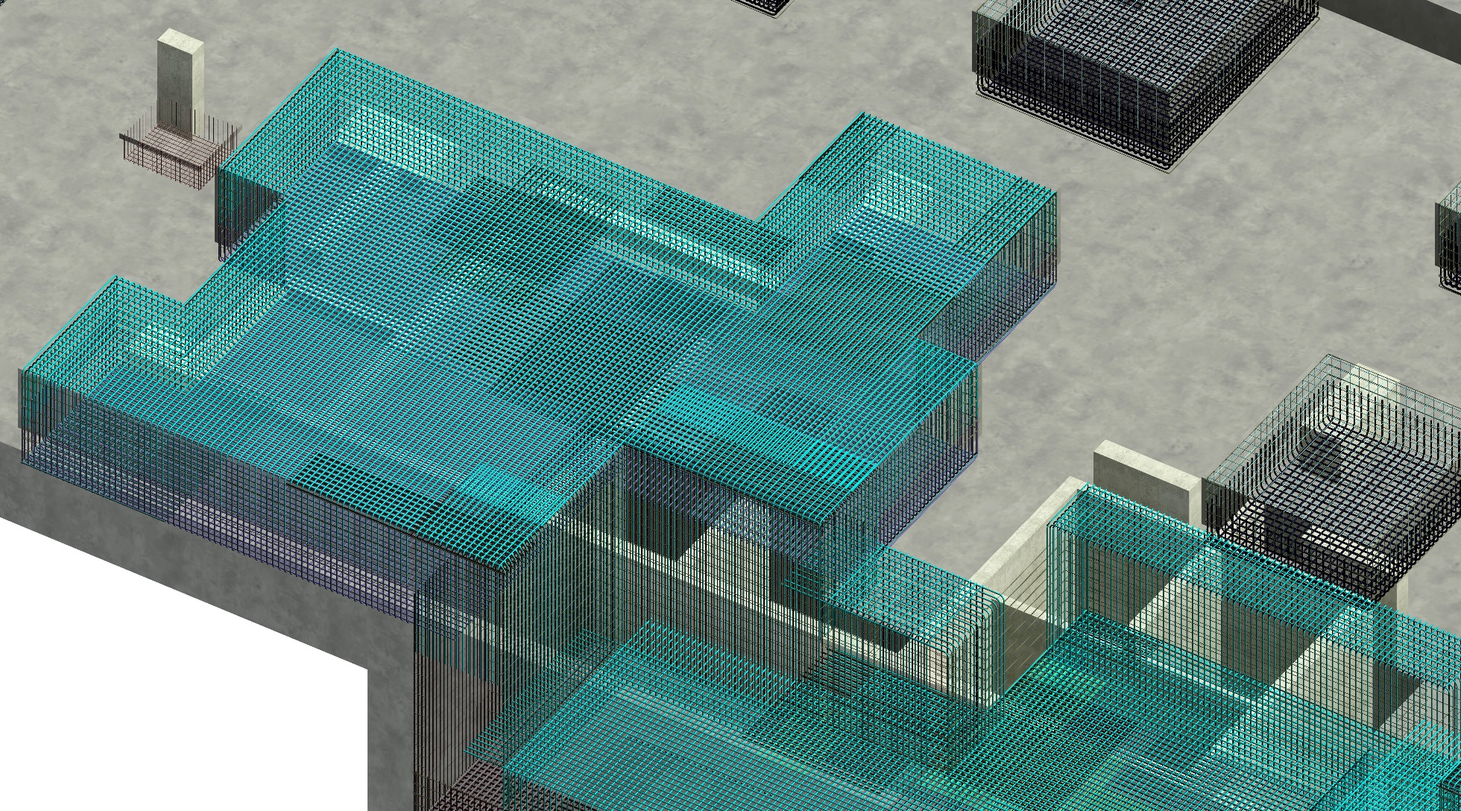
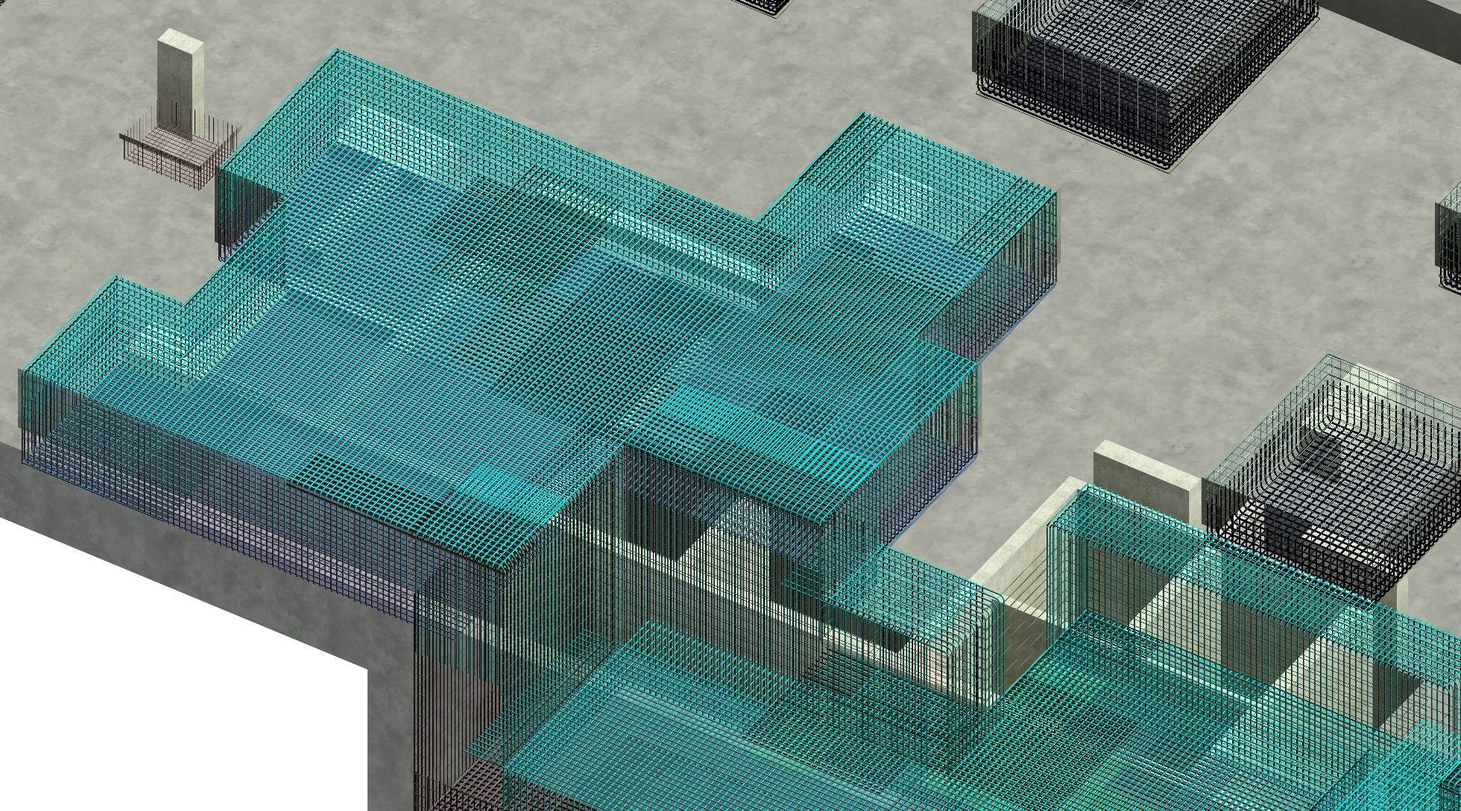
v2.4.1: remove 5 torn BBS drawings, optimize images 57MB->14MB, fix BBS counter 15->12, cache-bust assets

Changed region(s): [[0.0, 0.0625, 0.7158, 0.8125], [0.3423, 0.75, 1.0, 1.0], [0.7158, 0.5938, 1.0, 0.8438]]

diff --git a/index.html b/index.html
@@ -11,7 +11,7 @@
 <link rel="preconnect" href="https://fonts.googleapis.com">
 <link rel="preconnect" href="https://fonts.gstatic.com" crossorigin>
 <link href="https://fonts.googleapis.com/css2?family=Poppins:wght@600;700;800&family=Inter:wght@400;500;600;700&family=Playfair+Display:ital,wght@1,500;1,600&family=JetBrains+Mono:wght@500;700&display=swap" rel="stylesheet">
-<link rel="stylesheet" href="style.css?v=2.4.0">
+<link rel="stylesheet" href="style.css?v=2.4.1">
 <script data-goatcounter="https://aasif-shaikh7.goatcounter.com/count" async src="//gc.zgo.at/count.js"></script>
 </head>
 <body>
@@ -33,7 +33,7 @@
 <main>
 <!-- ============ HERO ============ -->
 <section id="home" class="hero">
-  <div class="hero-backdrop"><img src="assets/slide-03-01.png" alt="" id="heroBackdrop"></div>
+  <div class="hero-backdrop"><img src="assets/slide-03-01.jpg" alt="" id="heroBackdrop"></div>
   <p class="hero-tag">BIM · Revit · BOQ · BBS</p>
   <img class="hero-photo" src="assets/profile.jpg" alt="" onerror="this.remove()">
   <div class="hero-inner">
@@ -216,10 +216,10 @@
       </div>
     </div>
     <div class="bbs-slideshow" role="region" aria-label="Reinforcement documentation slideshow">
-      <div class="bbs-slides"><img src="assets/slide-16-01.jpg" alt="BBS reinforcement drawing" loading="lazy"><img src="assets/slide-16-02.jpg" alt="BBS reinforcement drawing" loading="lazy"><img src="assets/slide-16-03.jpg" alt="BBS reinforcement drawing" loading="lazy"><img src="assets/slide-16-04.jpg" alt="BBS reinforcement drawing" loading="lazy"><img src="assets/slide-16-05.jpg" alt="BBS reinforcement drawing" loading="lazy"><img src="assets/slide-16-06.jpg" alt="BBS reinforcement drawing" loading="lazy"><img src="assets/slide-16-07.jpg" alt="BBS reinforcement drawing" loading="lazy"><img src="assets/slide-16-08.jpg" alt="BBS reinforcement drawing" loading="lazy"><img src="assets/slide-16-09.jpg" alt="BBS reinforcement drawing" loading="lazy"><img src="assets/slide-17-01.jpg" alt="BBS reinforcement drawing" loading="lazy"><img src="assets/slide-17-02.jpg" alt="BBS reinforcement drawing" loading="lazy"><img src="assets/slide-17-03.jpg" alt="BBS reinforcement drawing" loading="lazy"><img src="assets/slide-17-04.jpg" alt="BBS reinforcement drawing" loading="lazy"><img src="assets/slide-18-01.jpg" alt="BOQ &amp; technical drawing" loading="lazy"><img src="assets/slide-18-02.jpg" alt="BOQ &amp; technical drawing" loading="lazy"><img src="assets/slide-18-03.jpg" alt="BOQ &amp; technical drawing" loading="lazy"><img src="assets/slide-18-04.jpg" alt="BOQ &amp; technical drawing" loading="lazy"><img src="assets/slide-19-01.jpg" alt="BOQ &amp; technical drawing" loading="lazy"><img src="assets/slide-20-01.jpg" alt="BOQ &amp; technical drawing" loading="lazy"><img src="assets/slide-20-02.png" alt="BOQ &amp; technical drawing" loading="lazy"></div>
+      <div class="bbs-slides"><img src="assets/slide-16-05.jpg" alt="BBS reinforcement drawing" loading="lazy"><img src="assets/slide-16-06.jpg" alt="BBS reinforcement drawing" loading="lazy"><img src="assets/slide-16-07.jpg" alt="BBS reinforcement drawing" loading="lazy"><img src="assets/slide-16-09.jpg" alt="BBS reinforcement drawing" loading="lazy"><img src="assets/slide-17-01.jpg" alt="BBS reinforcement drawing" loading="lazy"><img src="assets/slide-17-02.jpg" alt="BBS reinforcement drawing" loading="lazy"><img src="assets/slide-17-03.jpg" alt="BBS reinforcement drawing" loading="lazy"><img src="assets/slide-17-04.jpg" alt="BBS reinforcement drawing" loading="lazy"><img src="assets/slide-18-02.jpg" alt="BOQ &amp; technical drawing" loading="lazy"><img src="assets/slide-18-03.jpg" alt="BOQ &amp; technical drawing" loading="lazy"><img src="assets/slide-19-01.jpg" alt="BOQ &amp; technical drawing" loading="lazy"><img src="assets/slide-20-01.jpg" alt="BOQ &amp; technical drawing" loading="lazy"></div>
       <button class="bbs-prev" type="button" aria-label="Previous slide">←</button>
       <button class="bbs-next" type="button" aria-label="Next slide">→</button>
-      <div class="bbs-counter"><span id="bbs-current">01</span> / <span id="bbs-total">20</span></div>
+      <div class="bbs-counter"><span id="bbs-current">01</span> / <span id="bbs-total">12</span></div>
     </div>
   </div>
 </section>
@@ -292,6 +292,6 @@
   <div class="modal-box"><button class="modal-close" aria-label="Close project viewer">×</button><h2 id="modalTitle">Project</h2><div id="modalGallery" class="modal-gallery"></div></div>
 </div>
 
-<script src="script.js?v=2.4.0"></script>
+<script src="script.js?v=2.4.1"></script>
 </body>
 </html>

diff --git a/style.css b/style.css
@@ -1,9 +1,9 @@
 /* ============================================================
-   ASIF SHAIKH — BIM Portfolio · v2.4.0 "Reel Edition"
+   ASIF SHAIKH — BIM Portfolio · v2.4.1 "Reel Edition"
    Dark metallic redesign: pure black, brushed-metal display
    type, neon-lime accent. Single source of truth for styling.
-   v2.4.0: every carousel shows one project at a time with 3s
-   autoplay; lazy images preload one slide ahead (no blanks).
+   v2.4.1: removed 5 torn BBS images (15 healthy slides remain),
+   optimized giant images 57MB→14MB, cache-busted assets.
    ============================================================ */
 
 /* ---------- Tokens ---------- */

diff --git a/script.js b/script.js
@@ -1,5 +1,5 @@
 /* ============================================================
-   ASIF SHAIKH — BIM Portfolio · script.js v2.4.0 "Reel Edition"
+   ASIF SHAIKH — BIM Portfolio · script.js v2.4.1 "Reel Edition"
    Modules: header, mobile nav, reveal, services accordion,
    hero parallax, project modal, BBS carousel, featured and
    grid project carousels (one at a time), slide preloading,
